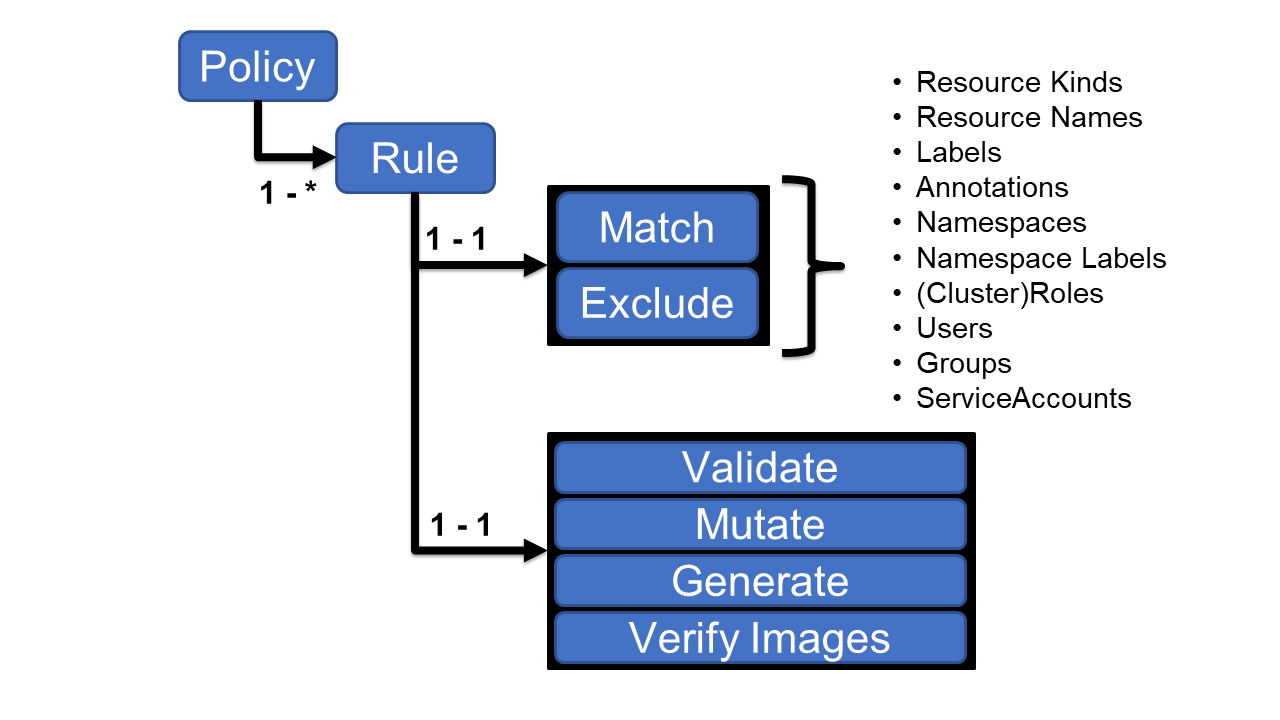
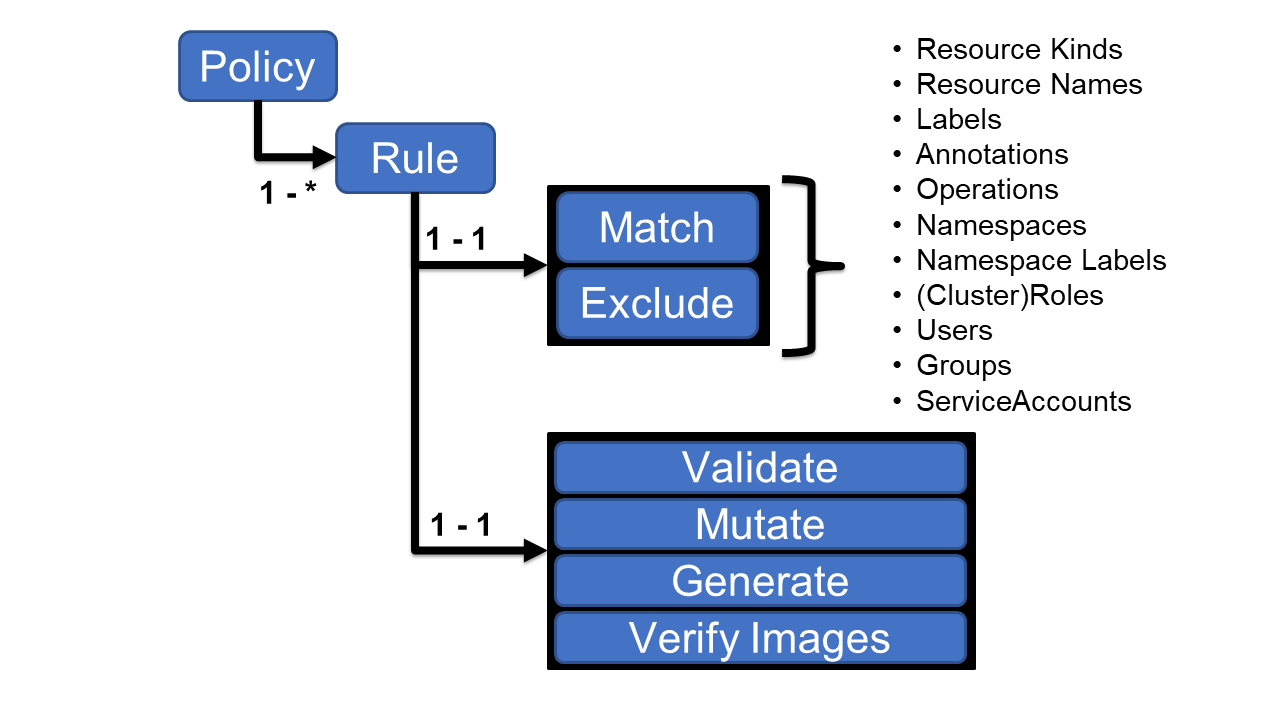
Fixes (#842)
* change Artifact Hub link to home page

* tighten up quick starts

* fix links

* update policy structure graphic

---------

Changed region(s): [[0.7188, 0.0611, 0.9062, 0.5806]]

diff --git a/content/en/docs/security/_index.md b/content/en/docs/security/_index.md
@@ -197,7 +197,7 @@ Kyverno Pods are configured to follow security best practices and conform to the
 
 ### RBAC
 
-The Kyverno RBAC configurations are described in the [installation](/docs/installation/#roles-and-permissions) section.
+The Kyverno RBAC configurations are described in the [installation](/docs/installation/customization/#roles-and-permissions) section.
 
 Use the following command to view all Kyverno roles:
 
@@ -248,7 +248,7 @@ Kyverno policies are configured to **fail-closed** by default. This setting can 
 
 #### Webhook authentication and encryption
 
-By default, Kyverno automatically generates and manage TLS certificates used for authentication with the API server and encryption of network traffic. To use a custom CA, please refer to the details in the [installation section](/docs/installation/#certificate-management).
+By default, Kyverno automatically generates and manage TLS certificates used for authentication with the API server and encryption of network traffic. To use a custom CA, please refer to the details in the [installation section](/docs/installation/customization/#certificate-management).
 
 ### Recommended policies
 
@@ -288,7 +288,7 @@ The sections below list each threat, mitigation, and provide Kyverno specific de
 
 * [Mitigation ID 3 - Webhook authenticates callers](https://github.com/kubernetes/sig-security/blob/main/sig-security-docs/papers/admission-control/kubernetes-admission-control-threat-model.md#mitigation-id-3---webhook-authenticates-callers)
 
-  By default, Kyverno generates a CA and X.509 certificates for the webhook registration. A custom CA and certificates can be used as discussed in the [installation guide](/docs/installation/#option-2-use-your-own-ca-signed-certificate). Currently, Kyverno does not authenticate the API server. A network policy can be used to restrict traffic to the Kyverno webhook port.
+  By default, Kyverno generates a CA and X.509 certificates for the webhook registration. A custom CA and certificates can be used as discussed in the [configuration guide](/docs/installation/customization/#custom-certificates). Currently, Kyverno does not authenticate the API server. A network policy can be used to restrict traffic to the Kyverno webhook port.
 
 ### Threat ID 3 - Attacker exploits misconfiguration of webhook to bypass
 
@@ -308,7 +308,7 @@ The sections below list each threat, mitigation, and provide Kyverno specific de
 
 * [Mitigation ID 1 - RBAC rights are strictly controlled](https://github.com/kubernetes/sig-security/blob/main/sig-security-docs/papers/admission-control/kubernetes-admission-control-threat-model.md#mitigation-id-1---rbac-rights-are-strictly-controlled)
 
-  Kyverno RBAC configurations are described in the [installation section](/docs/installation/#roles-and-permissions). The `kyverno:webhook` role is used by Kyverno to configure webhooks. It is important to limit Kyverno to the required permissions and audit changes in the RBAC roles and role bindings. In particular, the default `kyverno:view` and `kyverno:generate` roles can be customized to match your requirements.
+  Kyverno RBAC configurations are described in the [installation section](/docs/installation/customization/#roles-and-permissions). The `kyverno:webhook` role is used by Kyverno to configure webhooks. It is important to limit Kyverno to the required permissions and audit changes in the RBAC roles and role bindings. In particular, the default `kyverno:view` and `kyverno:generate` roles can be customized to match your requirements.
 
 ### Threat ID 5 - Attacker gets access to valid credentials for the webhook
 
@@ -346,7 +346,7 @@ The sections below list each threat, mitigation, and provide Kyverno specific de
 
 * [Mitigation ID 5 - Webhook mutual TLS authentication is used](https://github.com/kubernetes/sig-security/blob/main/sig-security-docs/papers/admission-control/kubernetes-admission-control-threat-model.md#mitigation-id-5---webhook-mutual-tls-authentication-is-used)
 
-  By default, Kyverno generates a CA and X.509 certificates for the webhook registration. A custom CA and certificates can be used as discussed in the [installation guide](/docs/installation/#option-2-use-your-own-ca-signed-certificate). Currently, Kyverno does not authenticate the API server. A network policy can be used to restrict traffic to the Kyverno webhook port.
+  By default, Kyverno generates a CA and X.509 certificates for the webhook registration. A custom CA and certificates can be used as discussed in the [configuration guide](/docs/installation/customization/#custom-certificates). Currently, Kyverno does not authenticate the API server. A network policy can be used to restrict traffic to the Kyverno webhook port.
 
 ### Threat ID 9 - Attacker steals traffic from the webhook via spoofing
 
@@ -356,7 +356,7 @@ The sections below list each threat, mitigation, and provide Kyverno specific de
 
 * [Mitigation ID 5 - Webhook mutual TLS authentication is used](https://github.com/kubernetes/sig-security/blob/main/sig-security-docs/papers/admission-control/kubernetes-admission-control-threat-model.md#mitigation-id-5---webhook-mutual-tls-authentication-is-used)
 
-  By default, Kyverno generates a CA and X.509 certificates for the webhook registration. A custom CA and certificates can be used as discussed in the [installation guide](/docs/installation/#option-2-use-your-own-ca-signed-certificate). Currently, Kyverno does not authenticate the API server. A network policy can be used to restrict traffic to the Kyverno webhook port.
+  By default, Kyverno generates a CA and X.509 certificates for the webhook registration. A custom CA and certificates can be used as discussed in the [configuration guide](/docs/installation/customization/#custom-certificates). Currently, Kyverno does not authenticate the API server. A network policy can be used to restrict traffic to the Kyverno webhook port.
 
 ### Threat ID 10 - Abusing a mutation rule to create a privileged container
 
@@ -376,9 +376,9 @@ The sections below list each threat, mitigation, and provide Kyverno specific de
 
 * [Mitigation ID 1 - RBAC rights are strictly controlled](https://github.com/kubernetes/sig-security/blob/main/sig-security-docs/papers/admission-control/kubernetes-admission-control-threat-model.md#mitigation-id-1---rbac-rights-are-strictly-controlled)
 
-  Kyverno RBAC configurations are described in the [installation section](/docs/installation/#roles-and-permissions). The `kyverno:webhook` role is used by Kyverno to configure webhooks. It is important to limit Kyverno to the required permissions and audit changes in the RBAC roles and role bindings. In particular, the default `kyverno:view` and `kyverno:generate` roles can be customized to match your requirements.
+  Kyverno RBAC configurations are described in the [configuration section](/docs/installation/customization/#roles-and-permissions). The `kyverno:webhook` role is used by Kyverno to configure webhooks. It is important to limit Kyverno to the required permissions and audit changes in the RBAC roles and role bindings. In particular, the default `kyverno:view` and `kyverno:generate` roles can be customized to match your requirements.
 
-  Kyverno does not exempt any Namespaces by default. It allows configuration of exempt Namespaces via a [ConfigMap](https://kyverno.io/docs/installation/#configmap-flags).
+  Kyverno does not exempt any Namespaces by default. It allows configuration of exempt Namespaces via a [ConfigMap](/docs/installation/customization/#configmap-keys).
 
 ### Threat ID 12 - Block rule can be bypassed due to missing match (e.g. missing initContainers)
 

diff --git a/content/en/docs/Troubleshooting/_index.md b/content/en/docs/Troubleshooting/_index.md
@@ -32,7 +32,7 @@ kubectl scale deploy kyverno -n kyverno --replicas 3
 
 3. Consider excluding namespaces
 
-Use [Namespace selectors](/docs/installation/#namespace-selectors) to filter requests to system Namespaces. Note that this configuration bypasses all policy checks on select Namespaces and may violate security best practices. When excluding Namespaces, it is the user's responsibility to ensure other controls such as Kubernetes RBAC are configured since Kyverno cannot apply any policies to objects therein. For more information, see the [Security vs Operability](/docs/installation/#security-vs-operability) section. The Kyverno Namespace is excluded by default.
+Use [Namespace selectors](/docs/installation/customization/#namespace-selectors) to filter requests to system Namespaces. Note that this configuration bypasses all policy checks on select Namespaces and may violate security best practices. When excluding Namespaces, it is the user's responsibility to ensure other controls such as Kubernetes RBAC are configured since Kyverno cannot apply any policies to objects therein. For more information, see the [Security vs Operability](/docs/installation/#security-vs-operability) section. The Kyverno Namespace is excluded by default.
 
 ## Policies not applied
 
@@ -82,7 +82,7 @@ Use [Namespace selectors](/docs/installation/#namespace-selectors) to filter req
 
 5. For `validate` policies, ensure that `validationFailureAction` is set to `Enforce` if your expectation is that applicable resources should be blocked. Most policies in the samples library are purposefully set to `Audit` mode so they don't have any unintended consequences for new users. It could be that, if the prior steps check out, Kyverno is working fine only that your policy is configured to not immediately block resources.
 
-6. Check and ensure you aren't creating a resource that is either excluded from Kyverno's processing by default, or that it hasn't been created in an excluded Namespace. Kyverno uses a ConfigMap by default called `kyverno` in the Kyverno Namespace to filter out some of these things. The key name is `resourceFilters` and more details can be found [here](/docs/installation/#resource-filters).
+6. Check and ensure you aren't creating a resource that is either excluded from Kyverno's processing by default, or that it hasn't been created in an excluded Namespace. Kyverno uses a ConfigMap by default called `kyverno` in the Kyverno Namespace to filter out some of these things. The key name is `resourceFilters` and more details can be found [here](/docs/installation/customization/#resource-filters).
 
 ## Kyverno consumes a lot of resources
 
@@ -104,7 +104,7 @@ After gathering this information, [create an issue](https://github.com/kyverno/k
 
 **Symptom**: Kyverno's operation seems slow in either mutating resources or validating them, causing additional time to create resources in the Kubernetes cluster.
 
-**Solution**: Check the Kyverno logs for messages about throttling. If many are found, this indicates Kyverno is making too many API calls in too rapid a succession which the Kubernetes API server will throttle. Increase the values, or set the [flags](/docs/installation/#container-flags), `--clientRateLimitQPS` and `--clientRateLimitBurst`. Try values `100` for each and increase as needed.
+**Solution**: Check the Kyverno logs for messages about throttling. If many are found, this indicates Kyverno is making too many API calls in too rapid a succession which the Kubernetes API server will throttle. Increase the values, or set the [flags](/docs/installation/customization/#container-flags), `--clientRateLimitQPS` and `--clientRateLimitBurst`. Try values `100` for each and increase as needed.
 
 ## Policies are partially applied
 
@@ -144,12 +144,12 @@ After gathering this information, [create an issue](https://github.com/kyverno/k
 
 **Symptom**: Kyverno pods emit logs stating `Waited for <n>s due to client-side throttling`; the creation of mutated resources may be delayed.
 
-**Solution**: Try increasing `clientRateLimitBurst` and `clientRateLimitQPS` (documented [here](https://kyverno.io/docs/installation/)) to `100` to begin with. If that doesn't resolve the problem, you can experiment with slowly increasing these values. Just bear in mind that higher values place more pressure on the Kubernetes API (the client-side throttling was implemented for a reason), which could result in cluster-wide latency, so proceed with caution.
+**Solution**: Try increasing `clientRateLimitBurst` and `clientRateLimitQPS` (documented [here](/docs/installation/customization/#container-flags)). If that doesn't resolve the problem, you can experiment with slowly increasing these values. Just bear in mind that higher values place more pressure on the Kubernetes API (the client-side throttling was implemented for a reason), which could result in cluster-wide latency, so proceed with caution.
 
 ## Policy definition not working
 
 **Symptom**: My policy _seems_ like it should work based on how I have authored it but it doesn't.
 
-**Solution**: There can be many reasons why a policy may fail to work as intended, assuming other policies work. One of the most common reasons is that the API server is sending different contents than what you have accounted for in your policy. To see the full contents of the AdmissionReview request the Kubernetes API server sends to Kyverno, add the `dumpPayload` [container flag](/docs/installation/#container-flags) set to `true` and check the logs. This has performance impact so it should be removed or set back to `false` when complete.
+**Solution**: There can be many reasons why a policy may fail to work as intended, assuming other policies work. One of the most common reasons is that the API server is sending different contents than what you have accounted for in your policy. To see the full contents of the AdmissionReview request the Kubernetes API server sends to Kyverno, add the `dumpPayload` [container flag](/docs/installation/customization/#container-flags) set to `true` and check the logs. This has performance impact so it should be removed or set back to `false` when complete.
 
 The second most common reason policies may fail to operate per design is due to variables. To see the values Kyverno is substituting for variables, increase logging to level `4` by setting the container flag `-v=4`. You can `grep` for the string `variable` (or use tools such as [stern](https://github.com/stern/stern)) and only see the values being substituted for those variables.

diff --git a/content/en/docs/High Availability/_index.md b/content/en/docs/High Availability/_index.md
@@ -67,7 +67,7 @@ Multiple replicas configured for the reports controller can only be used for ava
 
 The Background Controller is responsible for handling of generate and mutate-existing rules. This is also a stateful service and therefore the background controller also requires leader election. Although the Admission Controller can handle multiple, concurrent UpdateRequest generations, regardless of the number of replicas only a single replica of the background controller will handle the final resource generation or, in the case of existing resources, mutation.
 
-Multiple replicas configured for the background controller can only be used for availability. Vertical scaling of the replicas can be performed as well as increasing the number of internal workers used by these processes (`--genWorkers`). See the [container flags section](/docs/installation/#container-flags) for more details.
+Multiple replicas configured for the background controller can only be used for availability. Vertical scaling of the replicas can be performed as well as increasing the number of internal workers used by these processes (`--genWorkers`). See the [container flags section](/docs/installation/customization/#container-flags) for more details.
 
 ### Cleanup Controller
 
@@ -77,4 +77,4 @@ Multiple replicas configured for the cleanup controller can be used for both ava
 
 ## Installing Kyverno in HA mode
 
-The Helm chart is the recommended method of installing Kyverno in a production-grade, highly-available fashion as it provides all the necessary Kubernetes resources and configuration options to meet most production needs. For more information on installation of Kyverno in high availability, see the corresponding [installation section](/docs/installation/#high-availability).
+The Helm chart is the recommended method of installing Kyverno in a production-grade, highly-available fashion as it provides all the necessary Kubernetes resources and configuration options to meet most production needs. For more information on installation of Kyverno in high availability, see the corresponding [installation section](/docs/installation/methods/#high-availability).

diff --git a/content/en/docs/Writing policies/mutate.md b/content/en/docs/Writing policies/mutate.md
@@ -357,7 +357,7 @@ The anchor processing behavior for mutate conditions is as follows:
 
 In addition to mutation of "incoming" or "new" resources, Kyverno also supports mutation on existing resources with `patchesStrategicMerge` and `patchesJson6902`. Unlike standard mutate policies that are applied through the AdmissionReview process, mutate existing policies are applied in the background which update existing resources in the cluster. These mutate existing policies, like traditional mutate policies, are still triggered via the AdmissionReview process but apply to existing--and even different--resources. They may also optionally be configured to apply upon updates to the policy itself.
 
-Because these mutations occur on existing resources, Kyverno may need additional permissions which it does not have by default. See the section on [customizing permissions](/docs/installation/#customizing-permissions) on how to grant additional permission to the Kyverno ServiceAccount to determine, prior to installing mutate existing rules, if additional permissions are required.
+Because these mutations occur on existing resources, Kyverno may need additional permissions which it does not have by default. See the section on [customizing permissions](/docs/installation/customization/#customizing-permissions) on how to grant additional permission to the Kyverno ServiceAccount to determine, prior to installing mutate existing rules, if additional permissions are required.
 
 To define such a policy, trigger resources need to be specified in the `match` block. The target resources--resources that are mutated in the background--are specified in each mutate rule under `mutate.targets`. Note that all target resources within a single rule must share the same definition schema. For example, a mutate existing rule fails if this rule mutates both `Pod` and `Deployment` as they do not share the same OpenAPI V3 schema (except `metadata`).
 

diff --git a/content/en/docs/Writing policies/exceptions.md b/content/en/docs/Writing policies/exceptions.md
@@ -5,7 +5,7 @@ weight: 65
 ---
 
 {{% alert title="Warning" color="warning" %}}
-Policy exceptions are an **alpha** feature and requires setting certain [container flags](/docs/installation/#container-flags) to enable. It is not ready for production usage and there may be breaking changes. Normal semantic versioning and compatibility rules will not apply.
+Policy exceptions are an **alpha** feature and requires setting certain [container flags](/docs/installation/customization/#container-flags) to enable. It is not ready for production usage and there may be breaking changes. Normal semantic versioning and compatibility rules will not apply.
 {{% /alert %}}
 
 Although Kyverno policies contain multiple methods to provide fine-grained control as to which resources they act upon in the form of [`match`/`exclude` blocks](/docs/writing-policies/match-exclude/#match-statements), [preconditions](/docs/writing-policies/preconditions/) at multiple hierarchies, [anchors](/docs/writing-policies/validate/#anchors), and more, all these mechanisms have in common that the resources which they are intended to exclude must occur in the same rule definition. This may be limiting in situations where policies may not be directly editable, or doing so imposes an operational burden.
@@ -124,7 +124,7 @@ exceptions:
 Since PolicyExceptions are just another Custom Resource, their use can and should be controlled by a number of different mechanisms to ensure their creation in a cluster is authorized including:
 
 * Kubernetes RBAC
-* Specific Namespace for PolicyExceptions (see [Container Flags](/docs/installation/#container-flags))
+* Specific Namespace for PolicyExceptions (see [Container Flags](/docs/installation/customization/#container-flags))
 * Existing GitOps governance processes
 * [Kyverno validate rules](/docs/writing-policies/validate/)
 * [YAML manifest validation](/docs/writing-policies/validate/#manifest-validation)

diff --git a/content/en/docs/Introduction/_index.md b/content/en/docs/Introduction/_index.md
@@ -164,7 +164,7 @@ Now that you've experienced validate policies and seen a bit about policy report
 kubectl delete clusterpolicy require-labels
 ```
 
-Congratulations, you've just implemented a validation policy in your Kubernetes cluster!
+Congratulations, you've just implemented a validation policy in your Kubernetes cluster! For more details on validation policies, see the [validate section](/docs/writing-policies/validate/).
 
 ### Mutation
 
@@ -232,7 +232,7 @@ Now that you've experienced mutate policies and seen how logic can be written ea
 kubectl delete clusterpolicy add-labels
 ```
 
-Congratulations, you've just implemented a mutation policy in your Kubernetes cluster!
+Congratulations, you've just implemented a mutation policy in your Kubernetes cluster! For more details on mutate policies, see the [mutate section](/docs/writing-policies/mutate/).
 
 ### Generation
 
@@ -290,6 +290,12 @@ Get the Secrets in this new Namespace and see if `regcred` is present.
 kubectl -n mytestns get secret
 ```
 
-You should see that Kyverno has generated the `regcred` Secret using the source Secret from the `default` Namespace as the template.
+You should see that Kyverno has generated the `regcred` Secret using the source Secret from the `default` Namespace as the template. If you wish, you may also modify the source Secret and watch as Kyverno synchronizes those changes down to wherever it has generated it.
 
-Congratulations, you've just implemented a generation policy in your Kubernetes cluster!
+With a basic understanding of generate policies, clean up by deleting the policy you created above.
+
+```sh
+kubectl delete clusterpolicy sync-secrets
+```
+
+Congratulations, you've just implemented a generation policy in your Kubernetes cluster! For more details on generate policies, see the [generate section](/docs/writing-policies/generate/).

diff --git a/content/en/docs/Writing policies/autogen.md b/content/en/docs/Writing policies/autogen.md
@@ -8,7 +8,7 @@ weight: 100
 Pods are one of the most common object types in Kubernetes and as such are the focus of most types of validation rules. But creation of Pods directly is almost never done as it is considered an anti-pattern. Instead, Kubernetes has many higher-level controllers that directly or indirectly manage Pods, namely the Deployment, DaemonSet, StatefulSet, Job, and CronJob resources. Writing policy that targets Pods but must be written for every one of these controllers would be tedious and inefficient. Kyverno solves this issue by supporting automatic generation of policy rules for higher-level controllers from a rule written exclusively for a Pod. For rules which match on Pods in addition to other kinds, auto-generation is not activated.
 
 {{% alert title="Note" color="info" %}}
-Kyverno 1.9 adds support for including ReplicaSets and ReplicationControllers to auto-gen rules. These two intermediary controllers share the same Pod template schema as DaemonSets, Deployments, StatefulSets, and Jobs. Although these intermediary controllers have rules auto-generated, the Kyverno ConfigMap may need to be updated to remove default [resource filters](/docs/installation/#resource-filters) for them.
+Kyverno 1.9 adds support for including ReplicaSets and ReplicationControllers to auto-gen rules. These two intermediary controllers share the same Pod template schema as DaemonSets, Deployments, StatefulSets, and Jobs. Although these intermediary controllers have rules auto-generated, the Kyverno ConfigMap may need to be updated to remove default [resource filters](/docs/installation/customization/#resource-filters) for them.
 {{% /alert %}}
 
 For example, when creating a validation policy like below which checks that all images come from an internal, trusted registry, the policy applies to all resources capable of generating Pods.

diff --git a/content/en/docs/Policy Reports/_index.md b/content/en/docs/Policy Reports/_index.md
@@ -50,10 +50,10 @@ Policy reports are created in a 1:1 relationship with a Kyverno policy. The nami
 Policy reports show policy results for current resources in the cluster only. For information on resources that were blocked during admission controls, use the [policy rule execution metric](/docs/monitoring/policy-results-info/) or look at events on the corresponding Kyverno policy. A `Pod/exec` subresource is not capable of producing an entry in a policy report due to API limitations.
 {{% /alert %}}
 
-Policy reports have a few configuration options available. For details, see the [container flags](/docs/installation/#container-flags) section.
+Policy reports have a few configuration options available. For details, see the [container flags](/docs/installation/customization/#container-flags) section.
 
 {{% alert title="Note" color="warning" %}}
-Policy reports created from background scans are not subject to the configuration of either a [resource filter](/docs/installation/#resource-filters) or a [Namespace selector](/docs/installation/#namespace-selectors) defined in the [Kyverno ConfigMap](/docs/installation/#configmap-flags). This is due to the fact that the overhead required to generate these reports is minimal and should have no performance impact.
+Policy reports created from background scans are not subject to the configuration of either a [resource filter](/docs/installation/customization/#resource-filters) or a [Namespace selector](/docs/installation/customization/#namespace-selectors) defined in the [Kyverno ConfigMap](/docs/installation/customization/#configmap-keys). This is due to the fact that the overhead required to generate these reports is minimal and should have no performance impact.
 {{% /alert %}}
 
 ## Report result logic

diff --git a/content/en/docs/Writing policies/generate.md b/content/en/docs/Writing policies/generate.md
@@ -16,7 +16,7 @@ When using a `generate` rule, the origin resource can be either an existing reso
 Deleting the policy containing a `generate` rule with a `data` object and `synchronize=true` will cause immediate deletion of the downstream generated resources. Policies containing a `clone` object are not subject to this behavior.
 {{% /alert %}}
 
-Kubernetes has many default resource types even before considering Custom Resources defined in CustomResourceDefinitions (CRDs). While Kyverno can generate these Custom Resources as well, both these as well as certain default Kubernetes resources may require granting additional privileges to Kyverno. To enable Kyverno to generate these other types, see the section on [customizing permissions](/docs/installation/#customizing-permissions).
+Kubernetes has many default resource types even before considering Custom Resources defined in CustomResourceDefinitions (CRDs). While Kyverno can generate these Custom Resources as well, both these as well as certain default Kubernetes resources may require granting additional privileges to Kyverno. To enable Kyverno to generate these other types, see the section on [customizing permissions](/docs/installation/customization/#customizing-permissions).
 
 Kyverno will create an intermediate object called a `UpdateRequest` which is used to queue work items for the final resource generation. To get the details and status of a generated resource, check the details of the `UpdateRequest`. The following will give the list of `UpdateRequests`.
 

diff --git a/content/en/blog/releases/1-9-0/index.md b/content/en/blog/releases/1-9-0/index.md
@@ -116,7 +116,7 @@ ConfigMaps are a common source of data not just to Pods but to Kyverno policies 
 
 ## Other Additions and Enhancements
 
-Some other cool features and status updates we're proud to share include new JSON logging format and the ability to dump out the full AdmissionReview contents the API server sends to Kyverno. The latter has been a common request from the community and should help in those situations where you're not quite sure how to write a certain policy. Both require setting a new container flag so check out the [docs](/docs/installation/#container-flags).
+Some other cool features and status updates we're proud to share include new JSON logging format and the ability to dump out the full AdmissionReview contents the API server sends to Kyverno. The latter has been a common request from the community and should help in those situations where you're not quite sure how to write a certain policy. Both require setting a new container flag so check out the [docs](/docs/installation/customization/#container-flags).
 
 Kyverno now supports [nested foreach loops](/docs/writing-policies/mutate/#nested-foreach) which are great especially for mutation use cases where you need tactical modifications or removals from complex nested objects like arrays within arrays.
 

diff --git a/content/en/docs/Writing policies/background.md b/content/en/docs/Writing policies/background.md
@@ -16,7 +16,7 @@ spec:
 
 Background scanning, enabled by default in a `Policy` or `ClusterPolicy` object with the `spec.background` field, allows Kyverno to scan existing resources and find if they match any `validate` or `verifyImages` rules. If existing resources are found which would violate an existing policy, the background scan notes them in a `ClusterPolicyReport` or a `PolicyReport` object, depending on if the resource is namespaced or not. It does not block any existing resources that match a rule, even in `Enforce` mode. Background scanning is an optional field and defaults to `true`, only taking effect on `validate` and `verifyImages` rules. It has no effect on either `generate` or `mutate` rules.
 
-Background scanning occurs on a continual basis and offers some configuration options via [container flags](/docs/installation/#container-flags).
+Background scanning occurs on a continual basis and offers some configuration options via [container flags](/docs/installation/customization/#container-flags).
 
 {{% alert title="Note" color="info" %}}
 Kyverno does not mutate existing resources to prevent inadvertent changes to workloads. Mutate and generate rules are not processed during background scans.

diff --git a/content/en/pod-security.md b/content/en/pod-security.md
@@ -17,6 +17,6 @@ kustomize build https://github.com/kyverno/policies/pod-security | kubectl apply
 The upstream `kustomize` should be used to apply customizations in these policies, available [here](https://kubectl.docs.kubernetes.io/installation/kustomize/binaries/). In many cases the version of `kustomize` built-in to `kubectl` will not work.
 {{% /alert %}}
 
-Installation is also available via [Helm](/docs/installation/#install-kyverno-using-helm) by using the chart `kyverno-policies`. For more information, see the kyverno-policies repo [here](/policies/).
+Installation is also available via [Helm](/docs/installation/methods/#install-kyverno-using-helm) by using the chart `kyverno-policies`. For more information, see the kyverno-policies repo [here](/policies/).
 
 Pod Security Standard policies are organized in two groups, **Baseline** and **Restricted**. Use the filters on the left sidebar to select and view the policies currently covered in each group by selecting the appropriate Policy Category.
